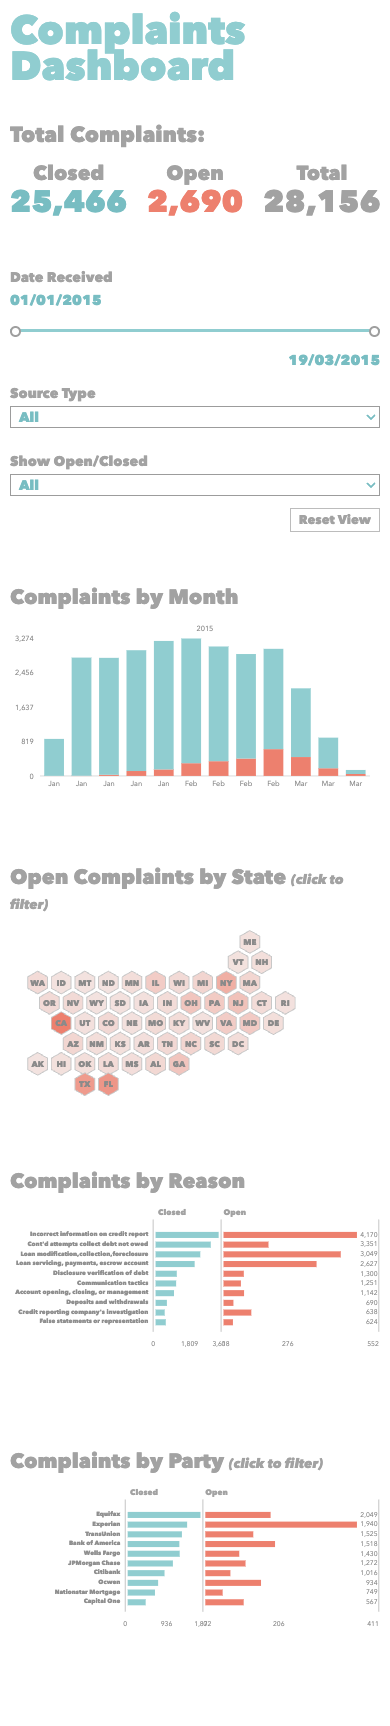
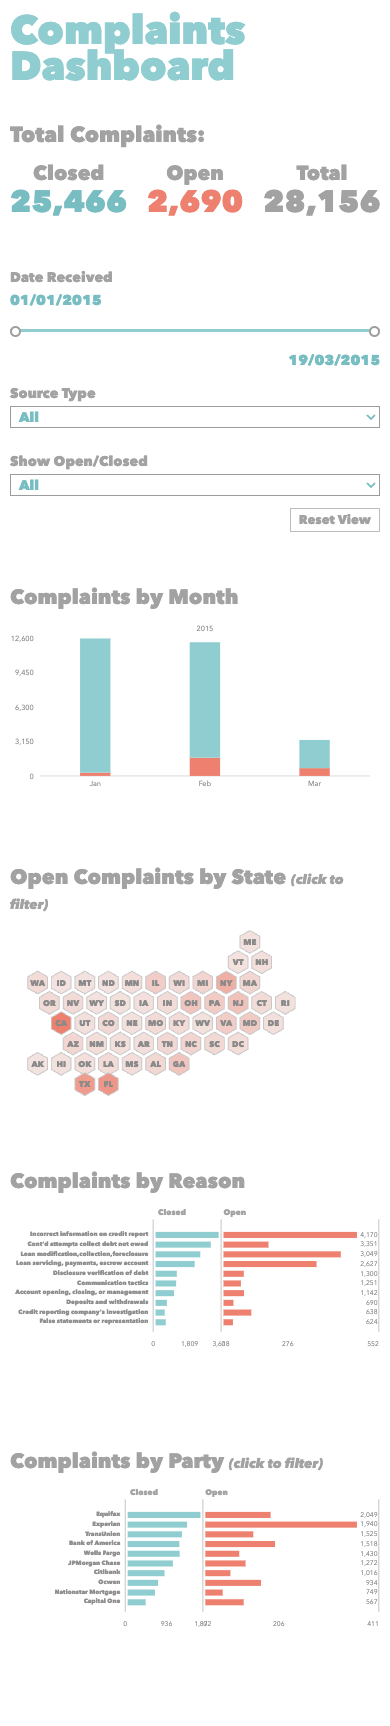
fix render column in complaints by month chart

Changed region(s): [[0.0923, 0.3685, 0.9231, 0.4606]]

diff --git a/app.js b/app.js
@@ -563,14 +563,13 @@ function renderTimeChart(records) {
     return;
   }
 
-  const grouped = groupedCounts(records, (record) => record.weekMs)
+  const grouped = groupedCounts(records, (record) => record.monthMs)
     .sort((a, b) => Number(a.name) - Number(b.name))
     .map((item) => ({
       ...item,
-      weekMs: Number(item.name),
-      displayMs: Math.max(Number(item.name), parseDate(state.minDate)),
-      label: new Intl.DateTimeFormat("en-US", { month: "short" }).format(new Date(Math.max(Number(item.name), parseDate(state.minDate)))),
-      year: new Date(Math.max(Number(item.name), parseDate(state.minDate))).getUTCFullYear()
+      monthMs: Number(item.name),
+      label: new Intl.DateTimeFormat("en-US", { month: "short" }).format(new Date(Number(item.name))),
+      year: new Date(Number(item.name)).getUTCFullYear()
     }));
 
   const width = 560;
@@ -581,7 +580,7 @@ function renderTimeChart(records) {
   const maxTotal = Math.max(...grouped.map((item) => item.total), 1);
   const tickCount = 4;
   const band = innerW / grouped.length;
-  const barW = Math.max(10, Math.min(30, band * 0.72));
+  const barW = Math.max(24, Math.min(46, band * 0.52));
 
   const y = (value) => margin.top + innerH - (value / maxTotal) * innerH;
   const h = (value) => (value / maxTotal) * innerH;
@@ -600,14 +599,12 @@ function renderTimeChart(records) {
     const closedHeight = h(item.closed);
     const openY = margin.top + innerH - openHeight;
     const closedY = openY - closedHeight;
-    const showLabel = grouped.length <= 15 || index % Math.ceil(grouped.length / 12) === 0;
-
     return `
       <g class="time-bar" data-testid="time-bar">
         <title>${escapeHtml(item.label)}: ${item.open} open, ${item.closed} closed</title>
         <rect class="open-fill" x="${x}" y="${openY}" width="${barW}" height="${openHeight}"></rect>
         <rect class="closed-fill" x="${x}" y="${closedY}" width="${barW}" height="${closedHeight}"></rect>
-        ${showLabel ? `<text class="tick-label" x="${x + barW / 2}" y="${height - 18}" text-anchor="middle">${escapeHtml(item.label)}</text>` : ""}
+        <text class="tick-label" x="${x + barW / 2}" y="${height - 18}" text-anchor="middle">${escapeHtml(item.label)}</text>
       </g>
     `;
   }).join("");
